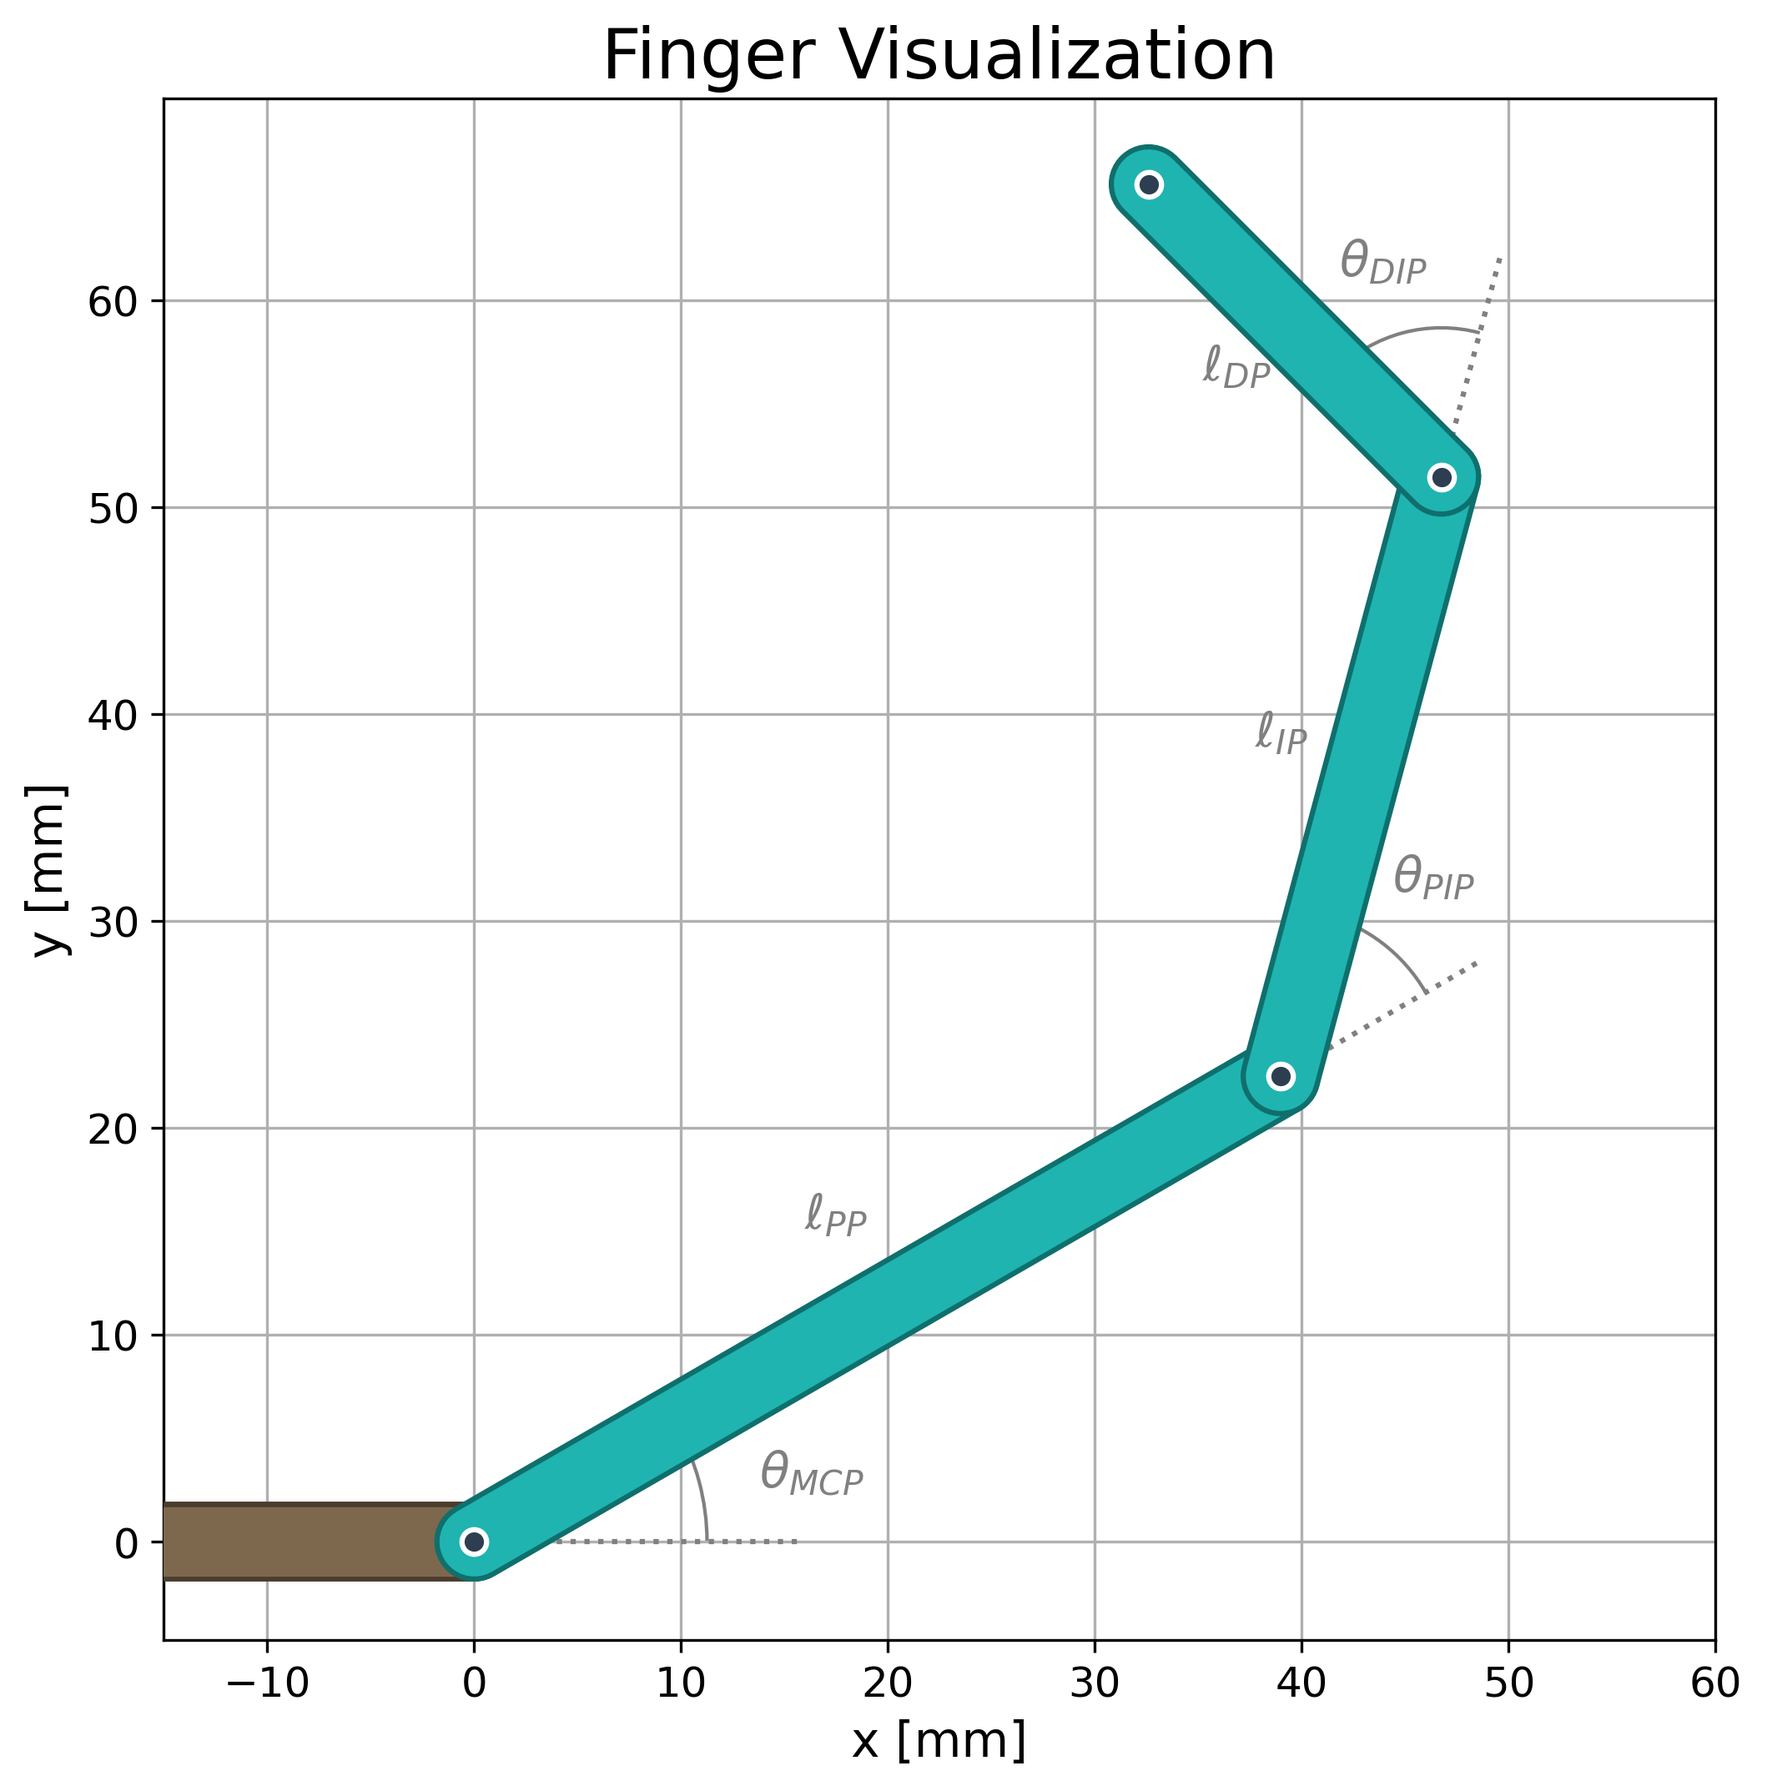
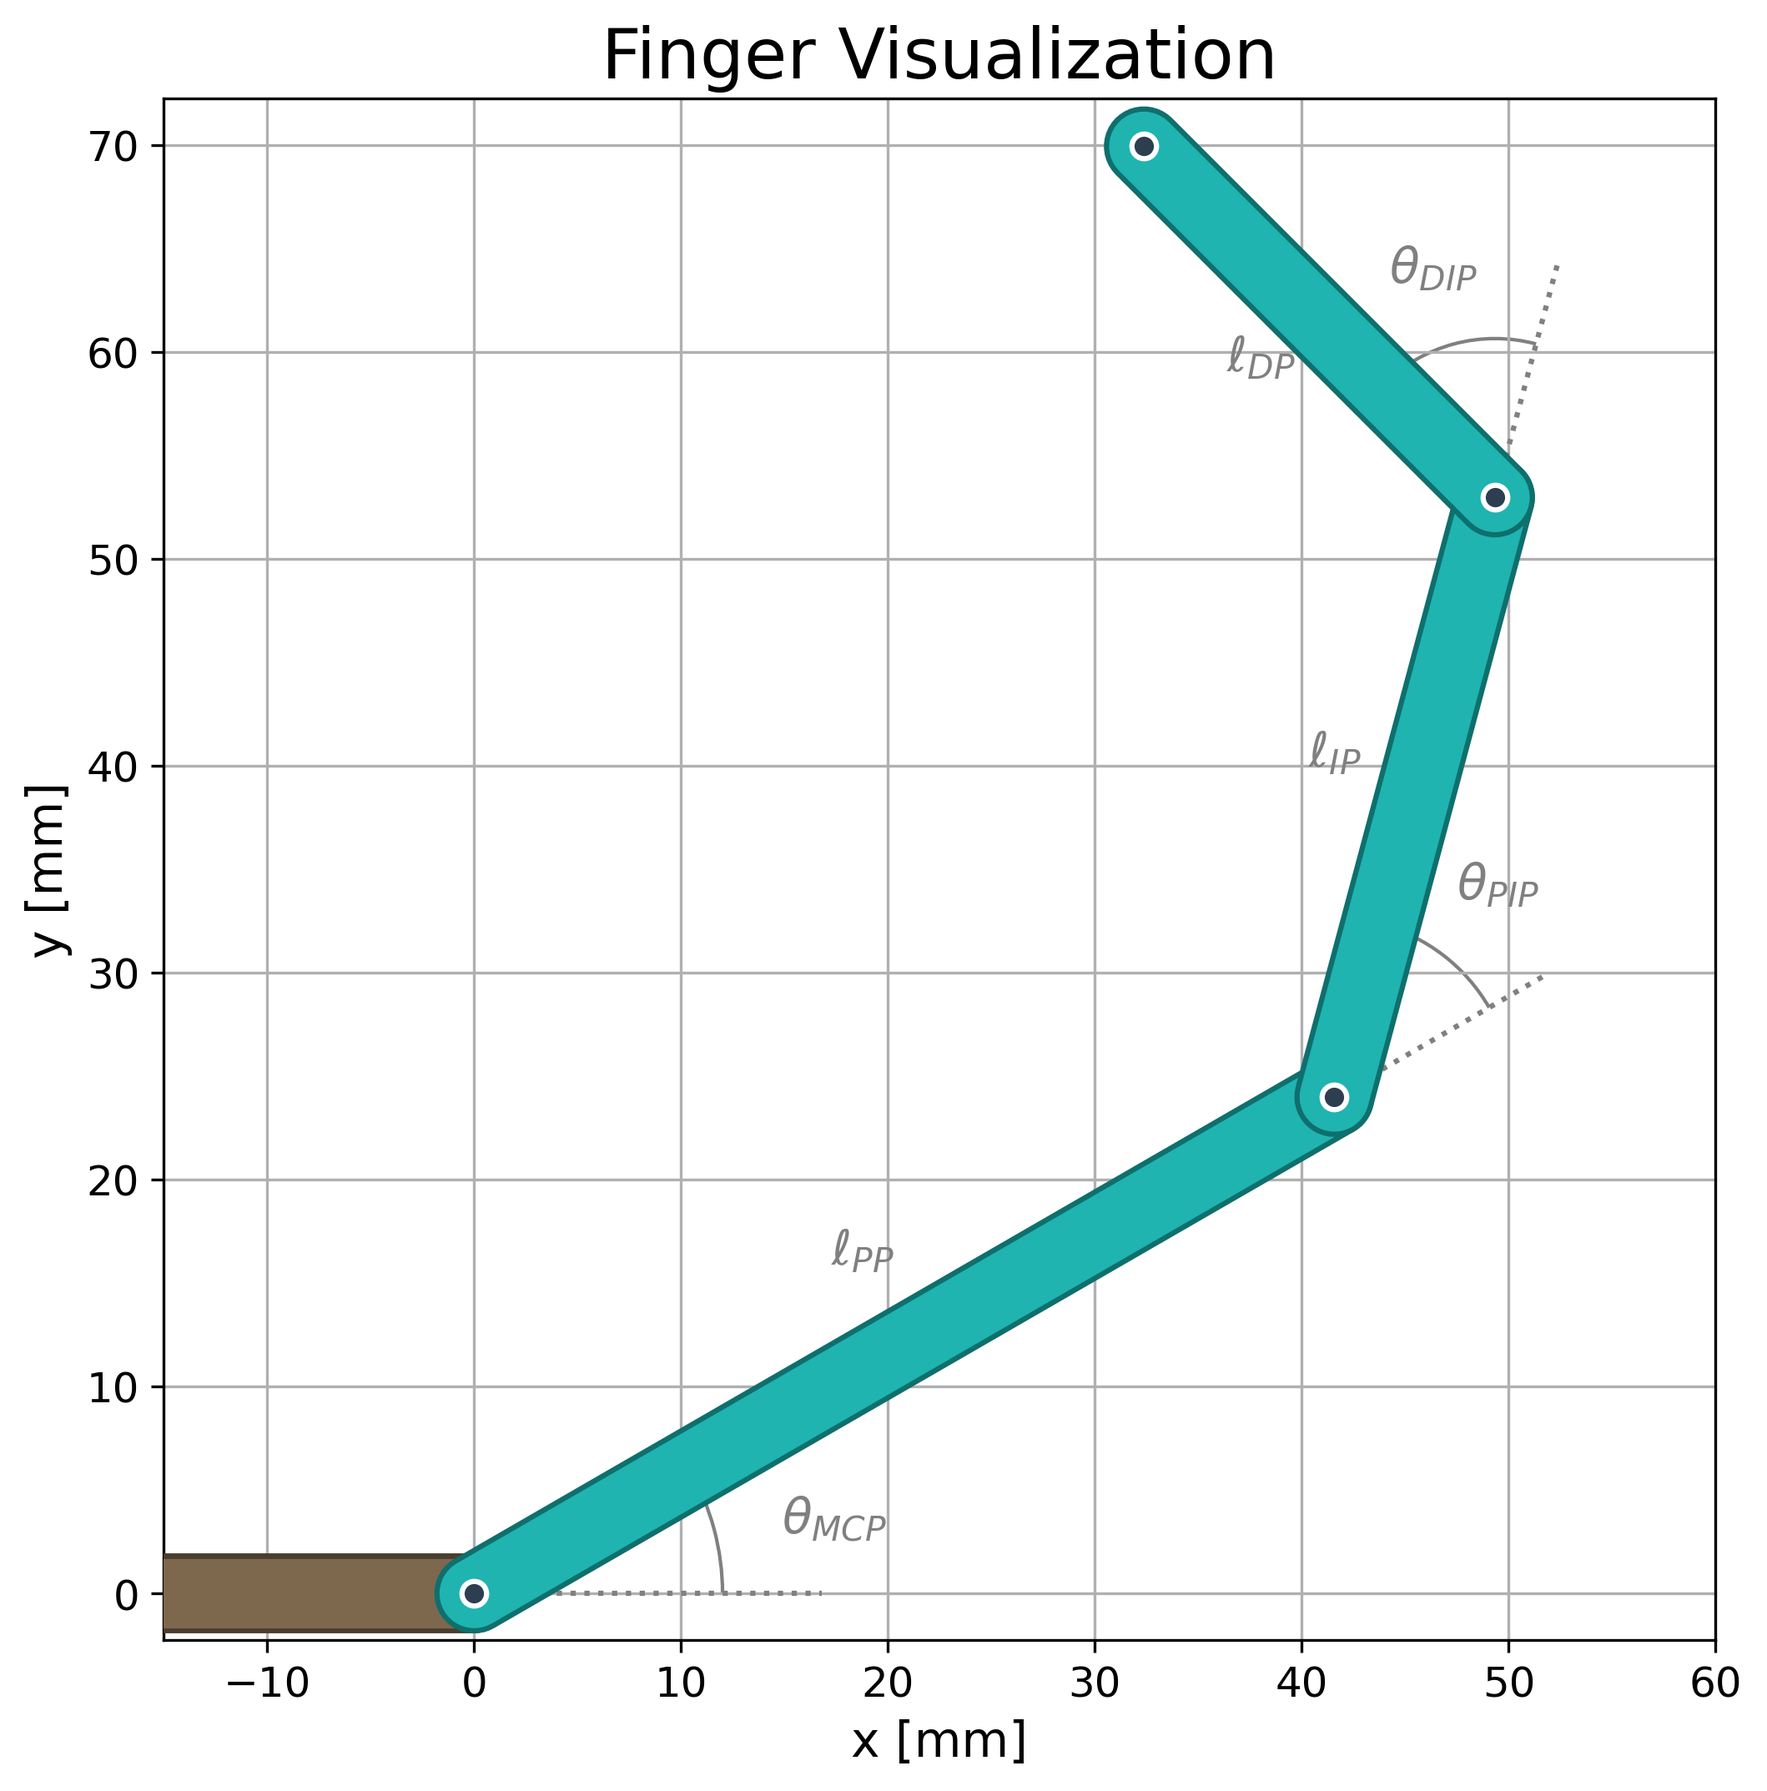
Working simulation without external forces

diff --git a/simulate_finger_dynamics.py b/simulate_finger_dynamics.py
@@ -4,20 +4,37 @@ import matplotlib.pyplot as plt
 import matplotlib.patheffects as pe
 from matplotlib.patches import Arc
 from matplotlib.animation import FuncAnimation
+from scipy.integrate import solve_ivp
+from tqdm import tqdm
 
 """
 ----------------------- Define Constants -----------------------
 """
-m1, m2, m3 = 0.02, 0.15, 0.012  # Masses [kg]
+m1, m2, m3 = 0.02, 0.015, 0.012  # Masses [kg]
 l1, l2, l3 = 0.048, 0.030, 0.024  # Lengths [m]
 r1, r2, r3 = 0.085, 0.085, 0.085  # Radii [m]
 
 k1, k2, k3 = 10.0, 10.0, 10.0  # Spring constants [N*m/rad]
-b1, b2, b3 = 1.0, 1.0, 1.0  # Damping coefficients [N*m*s/rad]
+b1, b2, b3 = 2.0, 2.0, 2.0  # Damping coefficients [N*m*s/rad]
 
-theta1_0, theta2_0, theta3_0 = pi/6, pi/6, pi/12  # Spring rest angles [rad]
+theta1_0, theta2_0, theta3_0 = pi/6, pi/4, pi/12  # Spring rest angles [rad]
 
+# Initial conditions: all angles and velocities zero
+state0 = [0.0, 0.0, 0.0,  # theta1, theta2, theta3
+          0.0, 0.0, 0.0]  # theta1_dot, theta2_dot, theta3_dot
+T = 2.0  # Total simulation time [s]
+simulation_speed = 1.0  # Playback speed multiplier (0.5 = half speed, 1.0 = real-time, etc.)
 
+should_save_animation = True  # Set to True to save the animation as a GIF file
+note = "normal"  # A note to include in the filename for clarity
+save_folder = "figures"
+
+filename_angles    = f"{save_folder}/finger_simulation_angles_{note}.png"  # Filename for the saved angles plot
+filename_animation = f"{save_folder}/finger_simulation_{note}.gif"         # Filename for the saved animation
+
+"""
+----------------------- Simulation and Visualization -----------------------
+"""
 def Tau_K(theta1, theta2, theta3):
     """
     3x1 vector of spring forces.
@@ -79,9 +96,9 @@ def C(theta1, theta2, theta3, theta1_dot, theta2_dot, theta3_dot):
     C : np.ndarray, shape (3, 3)
     """
     return np.array([
-        [l2*(-l1*theta2_dot*(m2 + 2*m3)*sin(theta2) - l3*m3*theta3_dot*sin(theta3))/2, l2*(-l1*theta1_dot*(m2 + 2*m3)*sin(theta2) - l1*theta2_dot*(m2 + 2*m3)*sin(theta2) - l3*m3*theta3_dot*sin(theta3))/2, l2*l3*m3*(-theta1_dot - theta2_dot - theta3_dot)*sin(theta3)/2],
-        [l2*(l1*theta1_dot*(m2 + 2*m3)*sin(theta2) - l3*m3*theta3_dot*sin(theta3))/2, -l2*l3*m3*theta3_dot*sin(theta3)/2, l2*l3*m3*(-theta1_dot - theta2_dot - theta3_dot)*sin(theta3)/2],
-        [l2*l3*m3*(theta1_dot + theta2_dot)*sin(theta3)/2, l2*l3*m3*(theta1_dot + theta2_dot)*sin(theta3)/2, 0],
+        [-l1*theta2_dot*(l2*m2*sin(theta2) + 2*l2*m3*sin(theta2) + l3*m3*sin(theta2 + theta3))/2 - l3*m3*theta3_dot*(l1*sin(theta2 + theta3) + l2*sin(theta3))/2, -l1*theta1_dot*(l2*m2*sin(theta2) + 2*l2*m3*sin(theta2) + l3*m3*sin(theta2 + theta3))/2 - l1*theta2_dot*(l2*m2*sin(theta2) + 2*l2*m3*sin(theta2) + l3*m3*sin(theta2 + theta3))/2 - l3*m3*theta3_dot*(l1*sin(theta2 + theta3) + l2*sin(theta3))/2, l3*m3*(l1*sin(theta2 + theta3) + l2*sin(theta3))*(-theta1_dot - theta2_dot - theta3_dot)/2],
+        [l1*theta1_dot*(l2*m2*sin(theta2) + 2*l2*m3*sin(theta2) + l3*m3*sin(theta2 + theta3))/2 - l2*l3*m3*theta3_dot*sin(theta3)/2, -l2*l3*m3*theta3_dot*sin(theta3)/2, l2*l3*m3*(-theta1_dot - theta2_dot - theta3_dot)*sin(theta3)/2],
+        [l3*m3*(l2*theta2_dot*sin(theta3) + theta1_dot*(l1*sin(theta2 + theta3) + l2*sin(theta3)))/2, l2*l3*m3*(theta1_dot + theta2_dot)*sin(theta3)/2, 0],
     ])
 
 
@@ -102,9 +119,9 @@ def M(theta1, theta2, theta3):
     M : np.ndarray, shape (3, 3)
     """
     return np.array([
-        [7*l1**2*m1/12 + l1**2*m2 + l1**2*m3 + l1*l2*m2*cos(theta2) + 2*l1*l2*m3*cos(theta2) + l1*l3*m3*cos(theta2 + theta3) + l2**2*m2/4 + l2**2*m3 + l2*l3*m3*cos(theta3) + l3**2*m3/4 + m1*r1**2/4, l1*l2*m2*cos(theta2)/2 + l1*l2*m3*cos(theta2) + l1*l3*m3*cos(theta2 + theta3)/2 + l2**2*m2/4 + l2**2*m3 + l2*l3*m3*cos(theta3) + l3**2*m3/4, l3*m3*(2*l1*cos(theta2 + theta3) + 2*l2*cos(theta3) + l3)/4],
-        [l1*l2*m2*cos(theta2)/2 + l1*l2*m3*cos(theta2) + l1*l3*m3*cos(theta2 + theta3)/2 + l2**2*m2/4 + l2**2*m3 + l2*l3*m3*cos(theta3) + l3**2*m3/4, 7*l2**2*m2/12 + l2**2*m3 + l2*l3*m3*cos(theta3) + l3**2*m3/4 + m2*r2**2/4, l3*m3*(2*l2*cos(theta3) + l3)/4],
-        [l3*m3*(2*l1*cos(theta2 + theta3) + 2*l2*cos(theta3) + l3)/4, l3*m3*(2*l2*cos(theta3) + l3)/4, m3*(7*l3**2 + 3*r3**2)/12],
+        [7*l1**2*m1/12 + l1**2*m2 + l1**2*m3 + l1*l2*m2*cos(theta2) + 2*l1*l2*m3*cos(theta2) + l1*l3*m3*cos(theta2 + theta3) + 7*l2**2*m2/12 + l2**2*m3 + l2*l3*m3*cos(theta3) + 7*l3**2*m3/12 + m1*r1**2/4 + m2*r2**2/4 + m3*r3**2/4, l1*l2*m2*cos(theta2)/2 + l1*l2*m3*cos(theta2) + l1*l3*m3*cos(theta2 + theta3)/2 + 7*l2**2*m2/12 + l2**2*m3 + l2*l3*m3*cos(theta3) + 7*l3**2*m3/12 + m2*r2**2/4 + m3*r3**2/4, m3*(6*l1*l3*cos(theta2 + theta3) + 6*l2*l3*cos(theta3) + 7*l3**2 + 3*r3**2)/12],
+        [l1*l2*m2*cos(theta2)/2 + l1*l2*m3*cos(theta2) + l1*l3*m3*cos(theta2 + theta3)/2 + 7*l2**2*m2/12 + l2**2*m3 + l2*l3*m3*cos(theta3) + 7*l3**2*m3/12 + m2*r2**2/4 + m3*r3**2/4, 7*l2**2*m2/12 + l2**2*m3 + l2*l3*m3*cos(theta3) + 7*l3**2*m3/12 + m2*r2**2/4 + m3*r3**2/4, m3*(6*l2*l3*cos(theta3) + 7*l3**2 + 3*r3**2)/12],
+        [m3*(6*l1*l3*cos(theta2 + theta3) + 6*l2*l3*cos(theta3) + 7*l3**2 + 3*r3**2)/12, m3*(6*l2*l3*cos(theta3) + 7*l3**2 + 3*r3**2)/12, m3*(7*l3**2 + 3*r3**2)/12],
     ])
 
 
@@ -128,16 +145,19 @@ def dynamics(t, state):
     return [th1d, th2d, th3d, q_ddot[0], q_ddot[1], q_ddot[2]]
 
 
-def visualize_simulation(sol, speed=1.0):
+def visualize_simulation(sol, speed=1.0, save_fps=None):
     """
     Animate the simulated finger motion using the same graphical style as the
     visualization scripts.
 
     Parameters
     ----------
-    sol   : ODE solution from solve_ivp
-    speed : playback speed multiplier (default 1.0 = real-time)
+    sol      : ODE solution from solve_ivp
+    speed    : playback speed multiplier (default 1.0 = real-time)
+    save_fps : if set, use frame-based timing (required for saving to file);
+               caller is responsible for calling plt.show() afterwards.
     """
+    save_mode = save_fps is not None
     # ---- Visual style (mirrors visualization_finger_interactive.py) ----
     link_color       = "#24c6c2"
     outline_color    = "#0f6f6d"
@@ -259,12 +279,17 @@ def visualize_simulation(sol, speed=1.0):
         import time as _time
         nonlocal arc_mcp, arc_pip, arc_dip
 
-        # Wall-clock driven: find which simulation index matches elapsed real time
-        if update.t_start is None:
-            update.t_start = _time.perf_counter()
-        elapsed = (_time.perf_counter() - update.t_start) * speed
+        if save_mode:
+            # Frame-based timing: each frame advances by 1/save_fps seconds of real time
+            sim_t = min(frame / save_fps * speed, sol.t[-1])
+        else:
+            # Wall-clock driven: find which simulation index matches elapsed real time
+            if update.t_start is None:
+                update.t_start = _time.perf_counter()
+            elapsed = (_time.perf_counter() - update.t_start) * speed
+            sim_t = min(elapsed, sol.t[-1])
+
         # Clamp to the last frame once the simulation is done
-        sim_t = min(elapsed, sol.t[-1])
         frame = int(np.searchsorted(sol.t, sim_t))
         frame = min(frame, sol.y.shape[1] - 1)
 
@@ -332,34 +357,38 @@ def visualize_simulation(sol, speed=1.0):
                 ray_mcp, ray_pip, time_text, ann_mcp, ann_pip, ann_dip,
                 *joint_scatters)
 
-    update.t_start = None  # will be set on first call
+    update.t_start = None  # will be set on first call (display mode only)
 
-    # Fire at ~50 fps; each call uses wall time to pick the right frame,
-    # so actual playback speed matches real time regardless of render cost.
-    # n_frames is set large enough that the animation covers the full duration
-    # even on a slow machine.
-    interval = 20  # ms (~50 fps target)
-    n_ticks  = int(sol.t[-1] * 1000 / interval * (1 / speed)) + 50
+    if save_mode:
+        # Exact number of frames needed to cover the full simulation at save_fps
+        interval = int(1000 / save_fps)
+        n_ticks  = int(np.ceil(sol.t[-1] * save_fps / speed)) + 1
+    else:
+        # Fire at ~50 fps; each call uses wall time to pick the right frame,
+        # so actual playback speed matches real time regardless of render cost.
+        # n_frames is set large enough that the animation covers the full duration
+        # even on a slow machine.
+        interval = 20  # ms (~50 fps target)
+        n_ticks  = int(sol.t[-1] * 1000 / interval * (1 / speed)) + 50
 
     anim = FuncAnimation(fig, update, frames=n_ticks,
-                         interval=interval, blit=False, repeat=False)
+                         interval=interval, blit=False, repeat=not save_mode)
     plt.tight_layout()
-    plt.show()
     return anim
 
 
 def main():
-    from scipy.integrate import solve_ivp
+    t_eval = np.linspace(0, T, 2000)
 
-    # Initial conditions: all angles and velocities zero
-    state0 = [0.0, 0.0, 0.0,  # theta1, theta2, theta3
-              0.0, 0.0, 0.0]  # theta1_dot, theta2_dot, theta3_dot
+    last_t = [0.0]
+    with tqdm(total=T, desc="Simulating", unit="s", unit_scale=True) as pbar:
+        def dynamics_with_progress(t, state):
+            pbar.update(t - last_t[0])
+            last_t[0] = t
+            return dynamics(t, state)
 
-    t_span = (0, 1)
-    t_eval = np.linspace(*t_span, 2000)
-
-    sol = solve_ivp(dynamics, t_span, state0, t_eval=t_eval, method='RK45',
-                    rtol=1e-8, atol=1e-10)
+        sol = solve_ivp(dynamics_with_progress, (0, T), state0, t_eval=t_eval, method='RK45',
+                        rtol=1e-8, atol=1e-10)
 
     th1 = sol.y[0]
     th2 = sol.y[1]
@@ -383,10 +412,20 @@ def main():
     ax.legend()
     ax.grid(True, alpha=0.3)
     plt.tight_layout()
-    plt.show()
+    if should_save_animation:
+        plt.savefig(filename_angles, dpi=300)  # Save the plot as a PNG file
+    plt.show(block=False)
 
     # ---- Finger animation ----
     anim = visualize_simulation(sol, speed=1.0)
+
+    if should_save_animation:
+        print(f"Saving animation to {filename_animation} ...")
+        anim_save = visualize_simulation(sol, speed=simulation_speed, save_fps=30)
+        anim_save.save(filename_animation, writer='pillow', fps=30, dpi=150)
+        plt.close(anim_save._fig)
+        print("Animation saved.")
+
     plt.show()
 
 

diff --git a/dynamics_functions_temp.py b/dynamics_functions_temp.py
@@ -3,15 +3,15 @@ from numpy import sin, cos, array
 
 def M(theta1, theta2, theta3):
     return array([
-        [7*l1**2*m1/12 + l1**2*m2 + l1**2*m3 + l1*l2*m2*cos(theta2) + 2*l1*l2*m3*cos(theta2) + l1*l3*m3*cos(theta2 + theta3) + l2**2*m2/4 + l2**2*m3 + l2*l3*m3*cos(theta3) + l3**2*m3/4 + m1*r1**2/4, l1*l2*m2*cos(theta2)/2 + l1*l2*m3*cos(theta2) + l1*l3*m3*cos(theta2 + theta3)/2 + l2**2*m2/4 + l2**2*m3 + l2*l3*m3*cos(theta3) + l3**2*m3/4, l3*m3*(2*l1*cos(theta2 + theta3) + 2*l2*cos(theta3) + l3)/4],
-        [l1*l2*m2*cos(theta2)/2 + l1*l2*m3*cos(theta2) + l1*l3*m3*cos(theta2 + theta3)/2 + l2**2*m2/4 + l2**2*m3 + l2*l3*m3*cos(theta3) + l3**2*m3/4, 7*l2**2*m2/12 + l2**2*m3 + l2*l3*m3*cos(theta3) + l3**2*m3/4 + m2*r2**2/4, l3*m3*(2*l2*cos(theta3) + l3)/4],
-        [l3*m3*(2*l1*cos(theta2 + theta3) + 2*l2*cos(theta3) + l3)/4, l3*m3*(2*l2*cos(theta3) + l3)/4, m3*(7*l3**2 + 3*r3**2)/12],
+        [7*l1**2*m1/12 + l1**2*m2 + l1**2*m3 + l1*l2*m2*cos(theta2) + 2*l1*l2*m3*cos(theta2) + l1*l3*m3*cos(theta2 + theta3) + 7*l2**2*m2/12 + l2**2*m3 + l2*l3*m3*cos(theta3) + 7*l3**2*m3/12 + m1*r1**2/4 + m2*r2**2/4 + m3*r3**2/4, l1*l2*m2*cos(theta2)/2 + l1*l2*m3*cos(theta2) + l1*l3*m3*cos(theta2 + theta3)/2 + 7*l2**2*m2/12 + l2**2*m3 + l2*l3*m3*cos(theta3) + 7*l3**2*m3/12 + m2*r2**2/4 + m3*r3**2/4, m3*(6*l1*l3*cos(theta2 + theta3) + 6*l2*l3*cos(theta3) + 7*l3**2 + 3*r3**2)/12],
+        [l1*l2*m2*cos(theta2)/2 + l1*l2*m3*cos(theta2) + l1*l3*m3*cos(theta2 + theta3)/2 + 7*l2**2*m2/12 + l2**2*m3 + l2*l3*m3*cos(theta3) + 7*l3**2*m3/12 + m2*r2**2/4 + m3*r3**2/4, 7*l2**2*m2/12 + l2**2*m3 + l2*l3*m3*cos(theta3) + 7*l3**2*m3/12 + m2*r2**2/4 + m3*r3**2/4, m3*(6*l2*l3*cos(theta3) + 7*l3**2 + 3*r3**2)/12],
+        [m3*(6*l1*l3*cos(theta2 + theta3) + 6*l2*l3*cos(theta3) + 7*l3**2 + 3*r3**2)/12, m3*(6*l2*l3*cos(theta3) + 7*l3**2 + 3*r3**2)/12, m3*(7*l3**2 + 3*r3**2)/12],
     ])
 
 
 def C(theta1, theta2, theta3, theta1_dot, theta2_dot, theta3_dot):
     return array([
-        [l2*(-l1*theta2_dot*(m2 + 2*m3)*sin(theta2) - l3*m3*theta3_dot*sin(theta3))/2, l2*(-l1*theta1_dot*(m2 + 2*m3)*sin(theta2) - l1*theta2_dot*(m2 + 2*m3)*sin(theta2) - l3*m3*theta3_dot*sin(theta3))/2, l2*l3*m3*(-theta1_dot - theta2_dot - theta3_dot)*sin(theta3)/2],
-        [l2*(l1*theta1_dot*(m2 + 2*m3)*sin(theta2) - l3*m3*theta3_dot*sin(theta3))/2, -l2*l3*m3*theta3_dot*sin(theta3)/2, l2*l3*m3*(-theta1_dot - theta2_dot - theta3_dot)*sin(theta3)/2],
-        [l2*l3*m3*(theta1_dot + theta2_dot)*sin(theta3)/2, l2*l3*m3*(theta1_dot + theta2_dot)*sin(theta3)/2, 0],
+        [-l1*theta2_dot*(l2*m2*sin(theta2) + 2*l2*m3*sin(theta2) + l3*m3*sin(theta2 + theta3))/2 - l3*m3*theta3_dot*(l1*sin(theta2 + theta3) + l2*sin(theta3))/2, -l1*theta1_dot*(l2*m2*sin(theta2) + 2*l2*m3*sin(theta2) + l3*m3*sin(theta2 + theta3))/2 - l1*theta2_dot*(l2*m2*sin(theta2) + 2*l2*m3*sin(theta2) + l3*m3*sin(theta2 + theta3))/2 - l3*m3*theta3_dot*(l1*sin(theta2 + theta3) + l2*sin(theta3))/2, l3*m3*(l1*sin(theta2 + theta3) + l2*sin(theta3))*(-theta1_dot - theta2_dot - theta3_dot)/2],
+        [l1*theta1_dot*(l2*m2*sin(theta2) + 2*l2*m3*sin(theta2) + l3*m3*sin(theta2 + theta3))/2 - l2*l3*m3*theta3_dot*sin(theta3)/2, -l2*l3*m3*theta3_dot*sin(theta3)/2, l2*l3*m3*(-theta1_dot - theta2_dot - theta3_dot)*sin(theta3)/2],
+        [l3*m3*(l2*theta2_dot*sin(theta3) + theta1_dot*(l1*sin(theta2 + theta3) + l2*sin(theta3)))/2, l2*l3*m3*(theta1_dot + theta2_dot)*sin(theta3)/2, 0],
     ])

diff --git a/lagrangian_mechanics.py b/lagrangian_mechanics.py
@@ -161,7 +161,7 @@ def main():
     progress_bar.update(1)
     progress_bar.set_description("Computing kinetic energy")
     # Kinetic energy
-    T = (sp.Rational(1, 2) * (theta_dot_vec.T * J * theta_dot_vec + r_CM_dot_vec.T * M6 * r_CM_dot_vec))[0]
+    T = sp.Rational(1, 2) * (J1 * θ1_dot**2 + J2 * (θ1_dot + θ2_dot)**2 + J3 * (θ1_dot + θ2_dot + θ3_dot)**2 + (r_CM_dot_vec.T * M6 * r_CM_dot_vec)[0, 0])
     # Unpack kinetic energy
     T = sp.simplify(T)
     progress_bar.update(1)
@@ -169,7 +169,7 @@ def main():
 
     M = sp.hessian(T, theta_dot_vec)   
     M = sp.simplify(M)                    
-    M = substitute_angles(M)
+    # M = substitute_angles(M)
     progress_bar.update(1)
     print("\nMass matrix M(q):")
     sp.pprint(M, use_unicode=True)

diff --git a/visualization_finger_variables.py b/visualization_finger_variables.py
@@ -17,9 +17,9 @@ theta_PIP = np.pi / 4  # 45 degrees
 theta_DIP = np.pi / 3  # 60 degrees
 
 # Link lengths (mm)
-l_PP = 45.0  # Proximal phalanx length
+l_PP = 48.0  # Proximal phalanx length
 l_IP = 30.0  # Intermediate phalanx length
-l_DP = 20.0  # Distal phalanx length
+l_DP = 24.0  # Distal phalanx length
 wrist_length = 15.0  # Wrist extension backward
 
 # Colors
@@ -75,7 +75,7 @@ show_length_end_ticks = False
 
 # Plot limits
 xlim = (-15, 60)
-ylim = (-5, 70)
+ylim = (-10, 80)
 # ===== END CONFIGURATION =====
 
 # Visualization
